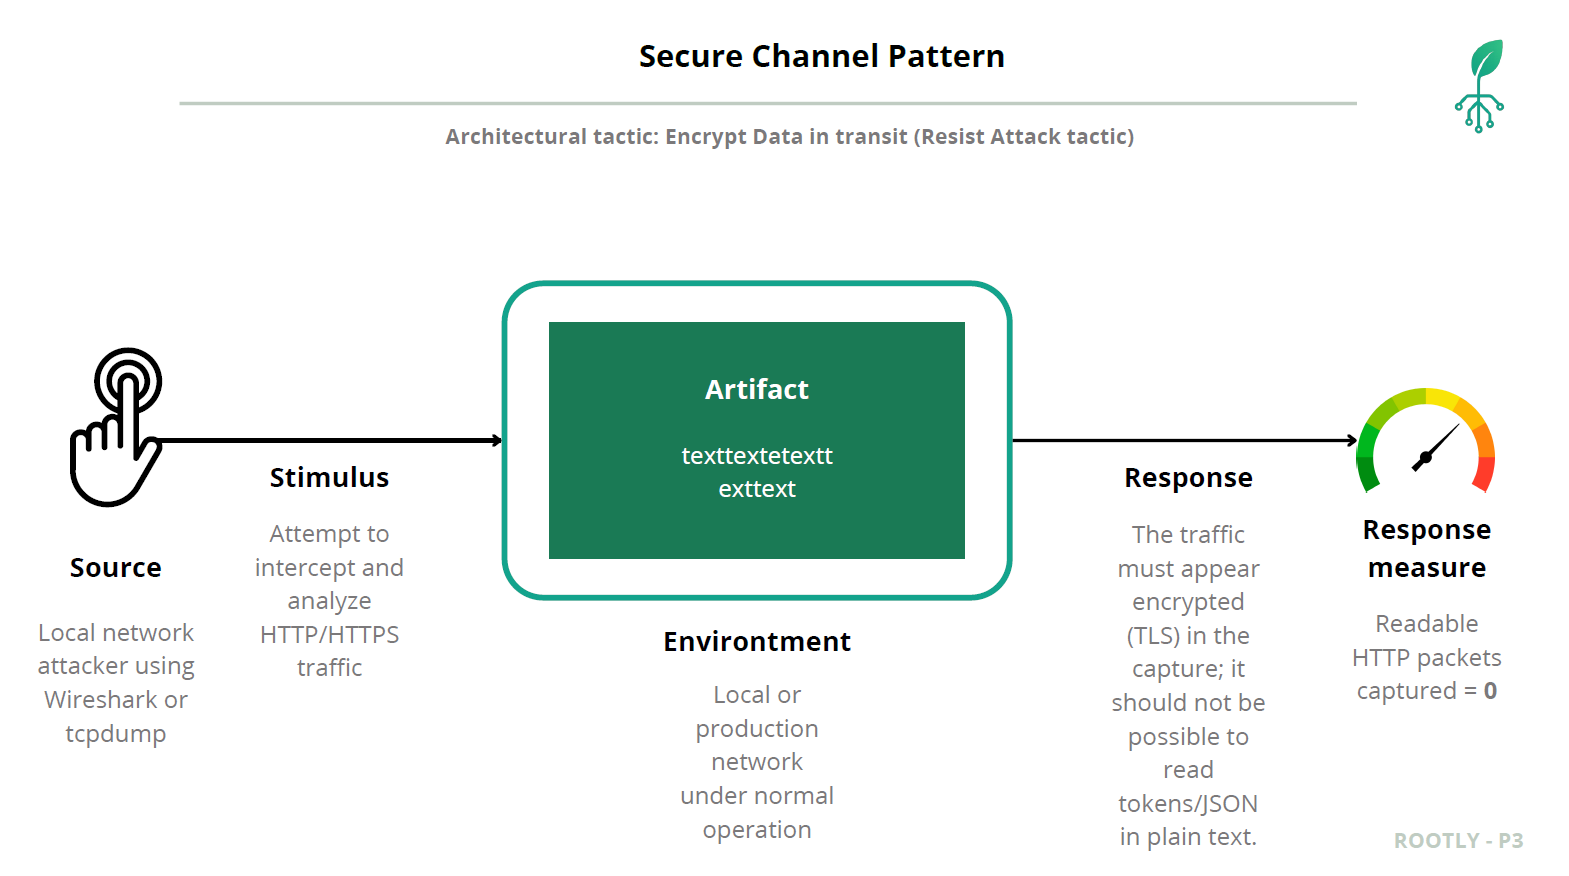
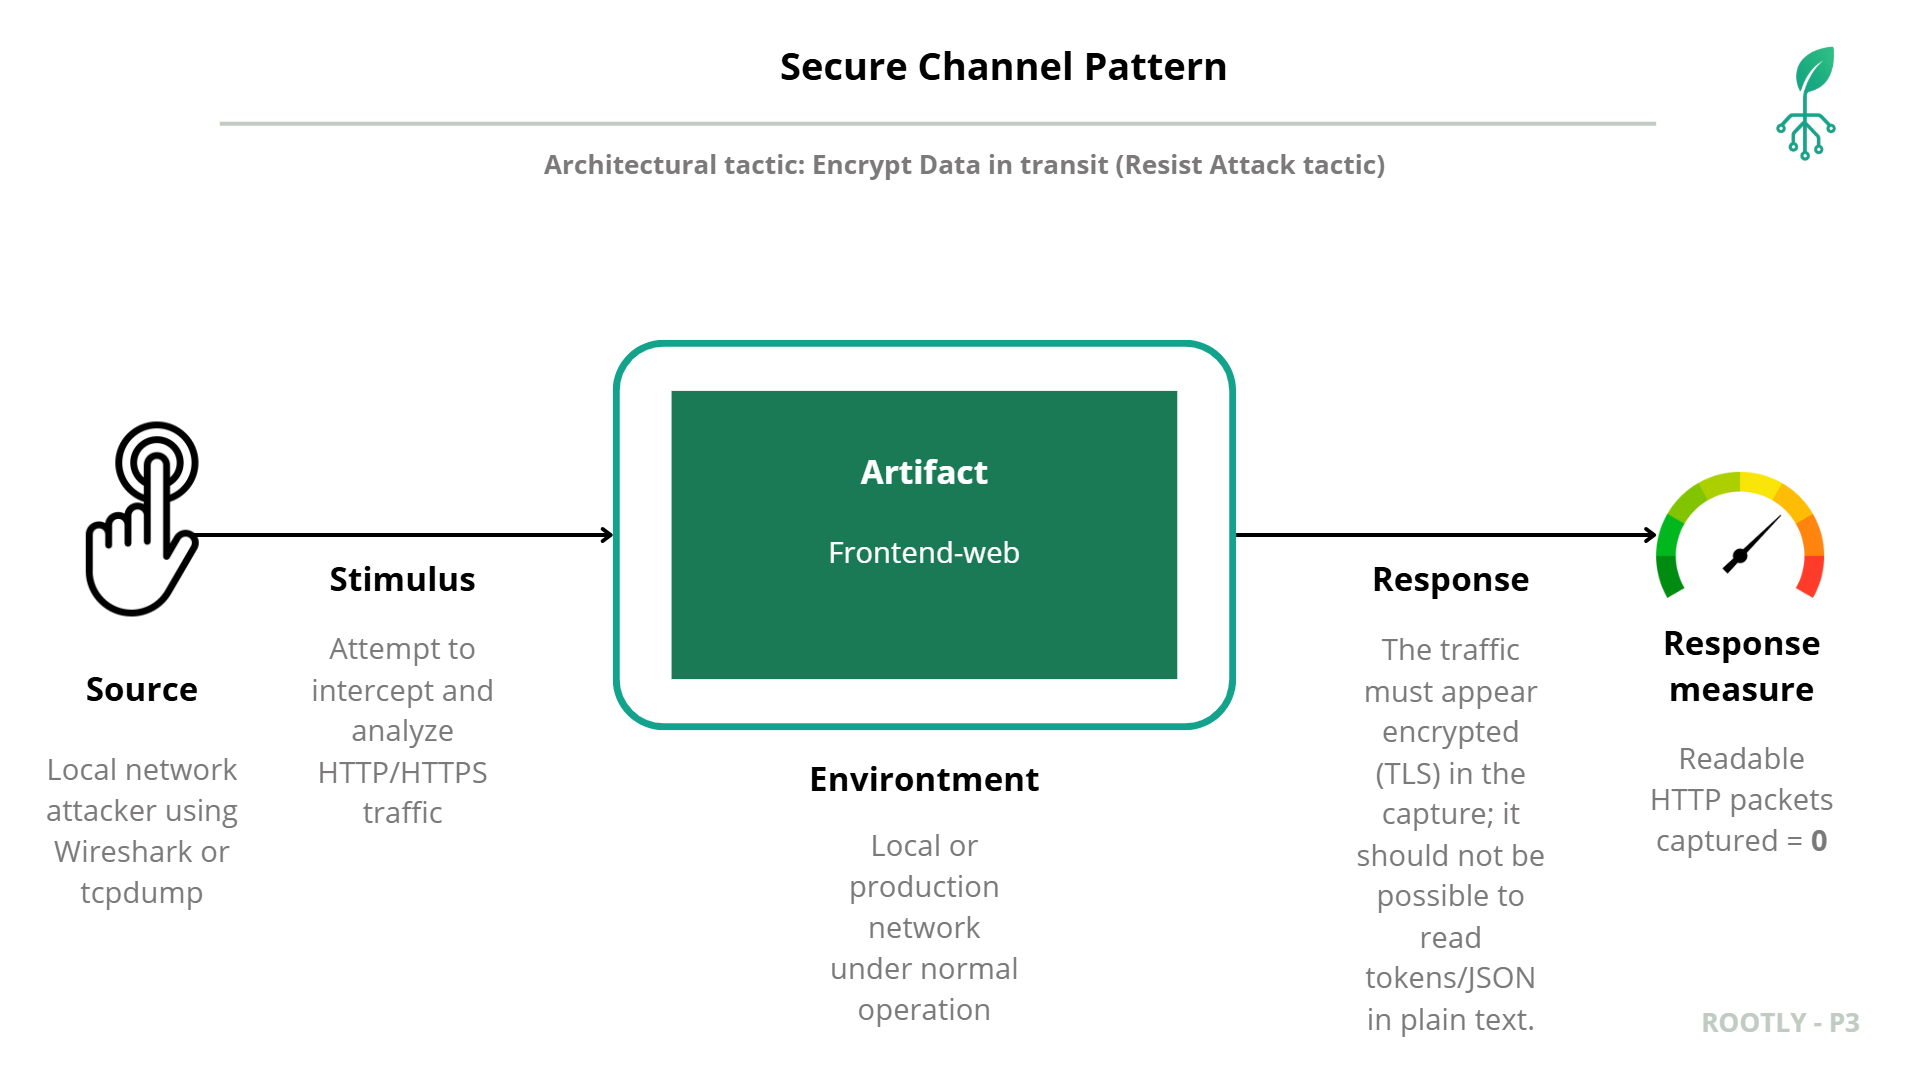
secure channel

diff --git a/Prototype_3/secure_channel/README.md b/Prototype_3/secure_channel/README.md
@@ -1,6 +1,10 @@
+
+---
+
 # Security Quality Attribute Scenario: Secure Channel Pattern Implementation and Validation
 
 ## Table of Contents
+
 1. [Architectural Weakness and Security Context](#architectural-weakness-and-security-context)
 2. [Quality Attribute Scenario](#quality-attribute-scenario)
 3. [Security Scenario Analysis](#security-scenario-analysis)
@@ -21,25 +25,23 @@
 
 ### System Vulnerability Overview
 
-The Rootly plant monitoring system's initial deployment lacked a **Secure Channel** between the frontend (Next.js), API Gateway, and backend microservices. All communication occurred over **unencrypted HTTP**, exposing sensitive data (credentials, JWT tokens, sensor payloads) to interception by any actor on the same network.
-
-<img src="images/secure_channel.png" alt="Deployment View - Pre-Secure Channel" width="1000"/>
+The **Rootly plant monitoring system** initially lacked a **Secure Channel** between the **web browser** and the **frontend web service (`frontend-ssr`)**. All communication occurred over **unencrypted HTTP**, exposing sensitive data (credentials, JWT tokens, sensor payloads) to interception by any actor on the same network.
 
 #### The Fundamental Weakness: Absence of Secure Channel
 
-- **Plaintext Transmission:** Requests and responses were sent over HTTP, readable by anyone with network access.
-- **No Encryption:** No TLS/SSL was configured, so traffic could be intercepted and modified.
-- **Attack Surface:** Any attacker with access to the network (Wi-Fi, Docker bridge, etc.) could capture and analyze packets.
+* **Plaintext Transmission:** Requests and responses were sent over HTTP, readable by anyone with network access.
+* **No Encryption:** No TLS/SSL was configured, so traffic could be intercepted and modified.
+* **Attack Surface:** Any attacker with access to the network (Wi-Fi, Docker bridge, etc.) could capture and analyze packets.
 
 #### Security Implications
 
-| Vulnerability | Description | Security Impact |
-|---------------|-------------|-----------------|
-| **Data Interception** | Attacker can read all HTTP traffic | **Confidentiality Loss** |
-| **Message Tampering** | Attacker can modify requests/responses | **Integrity Loss** |
-| **Session Hijacking** | Attacker can steal tokens/credentials | **Critical Risk** |
+| Vulnerability         | Description                            | Security Impact          |
+| --------------------- | -------------------------------------- | ------------------------ |
+| **Data Interception** | Attacker can read all HTTP traffic     | **Confidentiality Loss** |
+| **Message Tampering** | Attacker can modify requests/responses | **Integrity Loss**       |
+| **Session Hijacking** | Attacker can steal tokens/credentials  | **Critical Risk**        |
 
-**Why This Matters:**  
+**Why This Matters:**
 A malicious actor can exploit this weakness by capturing network traffic using tools like Wireshark or tcpdump, gaining access to sensitive data and potentially manipulating requests or hijacking sessions.
 
 ---
@@ -50,20 +52,20 @@ A malicious actor can exploit this weakness by capturing network traffic using t
 
 <img src="images/secure_channel.png" alt="Quality Attribute Scenario" width="1000"/>
 
-| Element | Description |
-|----------|-------------|
-| **Artifact** | Frontend, API Gateway, backend microservices |
-| **Source** | Network attacker (internal/external) |
-| **Stimulus** | Intercept and analyze traffic |
-| **Environment** | Normal operation, local or production network |
-| **Response** | All communication encrypted (TLS 1.2+) |
-| **Response Measure** | Readable HTTP packets = 0 |
+| Element              | Description                                   |
+| -------------------- | --------------------------------------------- |
+| **Artifact**         | Frontend web service (`frontend-ssr`)         |
+| **Source**           | Network attacker (internal/external)          |
+| **Stimulus**         | Intercept and analyze traffic                 |
+| **Environment**      | Normal operation, local or production network |
+| **Response**         | All communication encrypted (TLS 1.2+)        |
+| **Response Measure** | Readable HTTP packets = 0                     |
 
-**Scenario Focus:**  
-This scenario rigorously assesses the effectiveness of the **Secure Channel Pattern** as a countermeasure to the architectural weakness. The scenario quantifies security by measuring the **total count of readable packets** containing sensitive information.
+**Scenario Focus:**
+This scenario evaluates the effectiveness of the **Secure Channel Pattern** as a countermeasure to the architectural weakness. It quantifies security by measuring the number of **readable network packets** containing sensitive information.
 
-- **Exposure Baseline (Pre-Secure Channel):** Expected ≥ 5 readable packets per session
-- **Validation Target (Post-Secure Channel):** **Goal = 0** readable packets
+* **Exposure Baseline (Pre-Secure Channel):** Expected ≥ 5 readable packets per session
+* **Validation Target (Post-Secure Channel):** **Goal = 0** readable packets
 
 ---
 
@@ -74,30 +76,33 @@ This scenario rigorously assesses the effectiveness of the **Secure Channel Patt
 The lack of a Secure Channel directly threatens the **Confidentiality**, **Integrity**, and **Availability** of the application's data and services.
 
 #### Confidentiality Risk
+
 Sensitive data (user credentials, plant information, sensor data) could be exposed if an attacker intercepts HTTP traffic.
 
 #### Integrity Risk
+
 Unauthorized modification or corruption of data if an attacker can tamper with requests or responses in transit.
 
 #### Availability Risk
-Potential for denial of service if an attacker manipulates or floods unencrypted traffic.
 
-| Property | Pre-Secure Channel | Impact | Countermeasure |
-|----------|--------------------|--------|---------------|
-| **Confidentiality** | Data readable in transit | Critical | TLS encryption |
-| **Integrity** | Data can be tampered | High | TLS validation |
-| **Availability** | Minor risk | Medium | Proper TLS config |
+Potential denial of service if an attacker manipulates or floods unencrypted traffic.
+
+| Property            | Pre-Secure Channel       | Impact   | Countermeasure           |
+| ------------------- | ------------------------ | -------- | ------------------------ |
+| **Confidentiality** | Data readable in transit | Critical | TLS encryption           |
+| **Integrity**       | Data can be tampered     | High     | TLS validation           |
+| **Availability**    | Minor risk               | Medium   | Proper TLS configuration |
 
 ### Six Key Security Concepts in the Scenario
 
-| Concept | Definition | Secure Channel Scenario |
-|--------|------------|------------------------|
-| **Weakness** | Design flaw | No encryption between components |
-| **Vulnerability** | Exploitable path | HTTP traffic readable by attacker |
-| **Threat** | Agent/motivation | Network attacker with packet capture tools |
-| **Attack** | Exploit sequence | Capture and analyze HTTP packets |
-| **Risk** | Probability × Impact | High risk of data breach |
-| **Countermeasure** | Mitigation action | Implement TLS (Secure Channel Pattern) |
+| Concept            | Definition           | Secure Channel Scenario                    |
+| ------------------ | -------------------- | ------------------------------------------ |
+| **Weakness**       | Design flaw          | No encryption between browser and frontend |
+| **Vulnerability**  | Exploitable path     | HTTP traffic readable by attacker          |
+| **Threat**         | Agent/motivation     | Network attacker with packet capture tools |
+| **Attack**         | Exploit sequence     | Capture and analyze HTTP packets           |
+| **Risk**           | Probability × Impact | High risk of data breach                   |
+| **Countermeasure** | Mitigation action    | Implement TLS (Secure Channel Pattern)     |
 
 ---
 
@@ -110,7 +115,6 @@ This section demonstrates the security vulnerabilities present in the pre-Secure
 Tools required for the attack simulation:
 
 ```bash
-# Install tcpdump and Wireshark for packet capture and analysis
 sudo apt-get update
 sudo apt-get install tcpdump wireshark
 ```
@@ -118,10 +122,10 @@ sudo apt-get install tcpdump wireshark
 ### Phase 1: Network Reconnaissance
 
 ```bash
-# Discover host IP
 ip addr show | grep -E 'inet .* scope global'
 ```
-**Example Output:**  
+
+**Example Output:**
 `inet 192.168.1.10/24 brd 192.168.1.255 scope global dynamic noprefixroute wlp2s0`
 
 ### Phase 2: Packet Capture
@@ -129,12 +133,14 @@ ip addr show | grep -E 'inet .* scope global'
 ```bash
 sudo tcpdump -i any -w pre_tls.pcap tcp port 3001 or port 8080
 ```
+
 **Wireshark Filter:** `http`
 
-**Result:**  
+**Result:**
 All headers, tokens, and JSON bodies are visible.
 
 **Example:**
+
 ```
 POST /api/v1/login HTTP/1.1
 Authorization: Bearer eyJhbGciOiJIUzI1Ni...
@@ -146,27 +152,28 @@ Authorization: Bearer eyJhbGciOiJIUzI1Ni...
 ```bash
 curl -v http://192.168.1.10:8080/api/v1/health --max-time 5
 ```
-**Result:**  
+
+**Result:**
 Connection succeeds, data exposed.
 
 **Summary Table: Vulnerability Assessment**
 
-| Service | Port | Access Result | Security Impact |
-|---------|------|---------------|-----------------|
-| Frontend | 3001 | Accessible | ✓ Intended |
-| API Gateway | 8080 | Accessible | ✗ Critical |
-| Backend Services | 8000-8003 | Accessible | ✗ High |
-| Sensitive Data | - | Exposed | ✗ Critical |
+| Service          | Port      | Access Result | Security Impact |
+| ---------------- | --------- | ------------- | --------------- |
+| Frontend         | 3001      | Accessible    | ✓ Intended      |
+| API Gateway      | 8080      | Accessible    | ✗ Critical      |
+| Backend Services | 8000-8003 | Accessible    | ✗ High          |
+| Sensitive Data   | -         | Exposed       | ✗ Critical      |
 
 ---
 
 ## Countermeasure Implementation (Secure Channel)
 
-After identifying the vulnerabilities, we implement the **Secure Channel Pattern** to encrypt all communications and minimize the attack surface.
+After identifying the vulnerabilities, the **Secure Channel Pattern** was implemented to encrypt all communications and minimize the attack surface.
 
 ### Core Principle: Encrypt Data in Transit
 
-The Secure Channel Pattern is a defense-in-depth strategy that ensures all data exchanged between system components is protected from interception and tampering.
+The Secure Channel Pattern ensures that all data exchanged between the **browser** and **frontend web service** is protected from interception and tampering.
 
 ### Implementation Strategy
 
@@ -188,25 +195,24 @@ RUN apk add --no-cache openssl && \
 `server.js` handles HTTPS:
 
 ```js
-// ...existing code...
 const certs = {
   key: fs.readFileSync('./certs/localhost.key'),
   cert: fs.readFileSync('./certs/localhost.crt')
 };
-// ...existing code...
+
 createServer(certs, (req, res) => {
-  // ...existing code...
+  // Application logic
 }).listen(3001, '0.0.0.0', () => {
   console.log('> HTTPS Server ready at https://localhost:3001');
 });
-// ...existing code...
 ```
 
 #### Step 3: Configuration Updates
 
-- `package.json` starts with `node server.js`
-- All API endpoints updated to use `https://`
-- Environment variables:
+* Startup command in `package.json`: `node server.js`
+* API endpoints updated to `https://`
+* Environment variables:
+
   ```bash
   ENV NODE_ENV=production
   ENV HOSTNAME=0.0.0.0
@@ -217,7 +223,7 @@ createServer(certs, (req, res) => {
 
 ## Validation Results (Post-Secure Channel)
 
-After implementing the Secure Channel Pattern, we verify that previous attack vectors are now completely blocked.
+After implementing the Secure Channel Pattern, all previously exposed attack vectors were mitigated.
 
 ### Attack Attempts - All Vectors Blocked
 
@@ -229,10 +235,11 @@ sudo tcpdump -i any -w post_tls.pcap tcp port 3001
 
 #### Phase 2: Wireshark Analysis
 
-- Filter: `tls`
-- Result: Only "Encrypted Application Data" is visible.
+* Filter: `tls`
+* Result: Only encrypted **Application Data** is visible.
 
 **Example:**
+
 ```
 TLSv1.3 Client Hello
 TLSv1.3 Server Hello, Certificate
@@ -241,52 +248,50 @@ TLSv1.3 Application Data (encrypted)
 
 #### Phase 3: Functional Verification
 
-- Browser shows secure connection.
-- Server logs: `> HTTPS Server ready at https://localhost:3001`
+* Browser shows secure connection.
+* Server logs: `> HTTPS Server ready at https://localhost:3001`
 
 **Summary Table: Attack Surface Comparison**
 
-| Attack Vector | Pre-Secure Channel | Post-Secure Channel |
-|---------------|--------------------|---------------------|
-| Packet interception | Vulnerable | Blocked ✓ |
-| Data tampering | Possible | Blocked ✓ |
-| Credential theft | Possible | Blocked ✓ |
-| Number of readable packets | 5+ | 0 ✓ |
+| Attack Vector              | Pre-Secure Channel | Post-Secure Channel |
+| -------------------------- | ------------------ | ------------------- |
+| Packet interception        | Vulnerable         | Blocked ✓           |
+| Data tampering             | Possible           | Blocked ✓           |
+| Credential theft           | Possible           | Blocked ✓           |
+| Number of readable packets | 5+                 | 0 ✓                 |
 
 ---
 
 ## Response to Quality Scenario
 
-This section demonstrates how the implementation of the Secure Channel Pattern directly addresses and fulfills the quality attribute scenario requirements.
-
-| Scenario Element | Requirement | Implementation Response |
-|------------------|-------------|-------------------------|
-| **Artifact** | Protect communication between frontend and backend | ✓ All traffic encrypted |
-| **Source** | Defend against network attackers | ✓ TLS blocks packet inspection |
-| **Stimulus** | Prevent interception of HTTP packets | ✓ All packets encrypted |
-| **Environment** | Maintain normal operation | ✓ System functionality preserved |
-| **Response** | All traffic encrypted | ✓ Achieved |
-| **Response Measure** | Plaintext packets = 0 | ✓ Met |
+| Scenario Element     | Requirement                                        | Implementation Response          |
+| -------------------- | -------------------------------------------------- | -------------------------------- |
+| **Artifact**         | Protect communication between browser and frontend | ✓ All traffic encrypted          |
+| **Source**           | Defend against network attackers                   | ✓ TLS blocks packet inspection   |
+| **Stimulus**         | Prevent interception of HTTP packets               | ✓ All packets encrypted          |
+| **Environment**      | Maintain normal operation                          | ✓ System functionality preserved |
+| **Response**         | All traffic encrypted                              | ✓ Achieved                       |
+| **Response Measure** | Plaintext packets = 0                              | ✓ Met                            |
 
 ---
 
 ## Security Concepts Mapping
 
-| Concept | Status |
-|---------|--------|
-| **Vulnerability** (Unencrypted HTTP traffic) | **MITIGATED** - All traffic encrypted |
-| **Attack** (Packet capture and analysis) | **PREVENTED** - Only encrypted data visible |
-| **Countermeasure** (Secure Channel Pattern) | **SUCCESSFULLY IMPLEMENTED** - Validated through testing |
+| Concept                                      | Status                                                   |
+| -------------------------------------------- | -------------------------------------------------------- |
+| **Vulnerability** (Unencrypted HTTP traffic) | **MITIGATED** - All traffic encrypted                    |
+| **Attack** (Packet capture and analysis)     | **PREVENTED** - Only encrypted data visible              |
+| **Countermeasure** (Secure Channel Pattern)  | **SUCCESSFULLY IMPLEMENTED** - Validated through testing |
 
 ---
 
 ## CIA Triad Impact Assessment
 
-| Security Property | Risk Status Pre-Secure Channel | Protection Status Post-Secure Channel |
-|-------------------|------------------------------|-------------------------------------|
-| **Confidentiality** | At Risk - Data readable in transit | **Protected** - All data encrypted |
-| **Integrity** | At Risk - Data can be tampered | **Protected** - TLS validation |
-| **Availability** | Minor risk | **Maintained** - No negative impact |
+| Security Property   | Risk Status Pre-Secure Channel     | Protection Status Post-Secure Channel |
+| ------------------- | ---------------------------------- | ------------------------------------- |
+| **Confidentiality** | At Risk - Data readable in transit | **Protected** - All data encrypted    |
+| **Integrity**       | At Risk - Data can be tampered     | **Protected** - TLS validation        |
+| **Availability**    | Minor risk                         | **Maintained** - No negative impact   |
 
 ---
 
@@ -294,9 +299,9 @@ This section demonstrates how the implementation of the Secure Channel Pattern d
 
 ### Verification of Internal Communication
 
-- All legitimate communication between frontend and backend services continues to function over HTTPS.
-- API requests routed through the secured API Gateway.
-- No degradation in system functionality; security enhanced without operational impact.
+* All legitimate communication between browser and frontend continues to function over HTTPS.
+* API requests routed securely through the encrypted channel.
+* No degradation in system functionality; security enhanced without operational impact.
 
 **Example:**
 
@@ -305,6 +310,7 @@ curl -k https://localhost:3001/api/v1/health
 ```
 
 **Output:**
+
 ```
 {"status":"healthy","service":"rootly-apigateway"}
 ```
@@ -314,31 +320,35 @@ curl -k https://localhost:3001/api/v1/health
 ## Visual Evidence (Wireshark)
 
 ### 🔹 Without Secure Channel (HTTP)
-![HTTP traffic without Secure Channel](images/http_no_secure_channel.png)  
+
+![HTTP traffic without Secure Channel](images/http_no_secure_channel.png)
+
 > All data transmitted in **plaintext**; credentials and payloads are visible.
 
 ### 🔹 With Secure Channel (HTTPS)
-![HTTPS traffic with Secure Channel](images/https_with_secure_channel.png)  
+
+![HTTPS traffic with Secure Channel](images/https_with_secure_channel.png)
+
 > Traffic is **fully encrypted**; only TLS handshake and “Encrypted Application Data” are visible.
 
 ---
 
 ## Security Tactic Implementation Validation
 
-**Tactic Category:** Resist Attacks  
+**Tactic Category:** Resist Attacks
 **Specific Tactic:** Encrypt Data in Transit
 
 **Validation Results:**
+
 1. **Access Control Mechanism:** TLS implemented for all communications.
 2. **Perimeter Definition:** All traffic passes through encrypted channels.
 3. **Entry Point Control:** Only HTTPS endpoints exposed.
 4. **Unauthorized Access Prevention:** All packet inspection attempts blocked.
 5. **Legitimate Access Preservation:** System functionality maintained.
 
-**Conclusion:**  
-The **Secure Channel Pattern** successfully implements the **Encrypt Data in Transit** security tactic, providing defense in depth and eliminating critical vulnerabilities.
+**Conclusion:**
+The **Secure Channel Pattern** successfully enforces **Encrypt Data in Transit**, eliminating data exposure risks and strengthening Rootly’s security posture.
 
 ---
-
 
 
